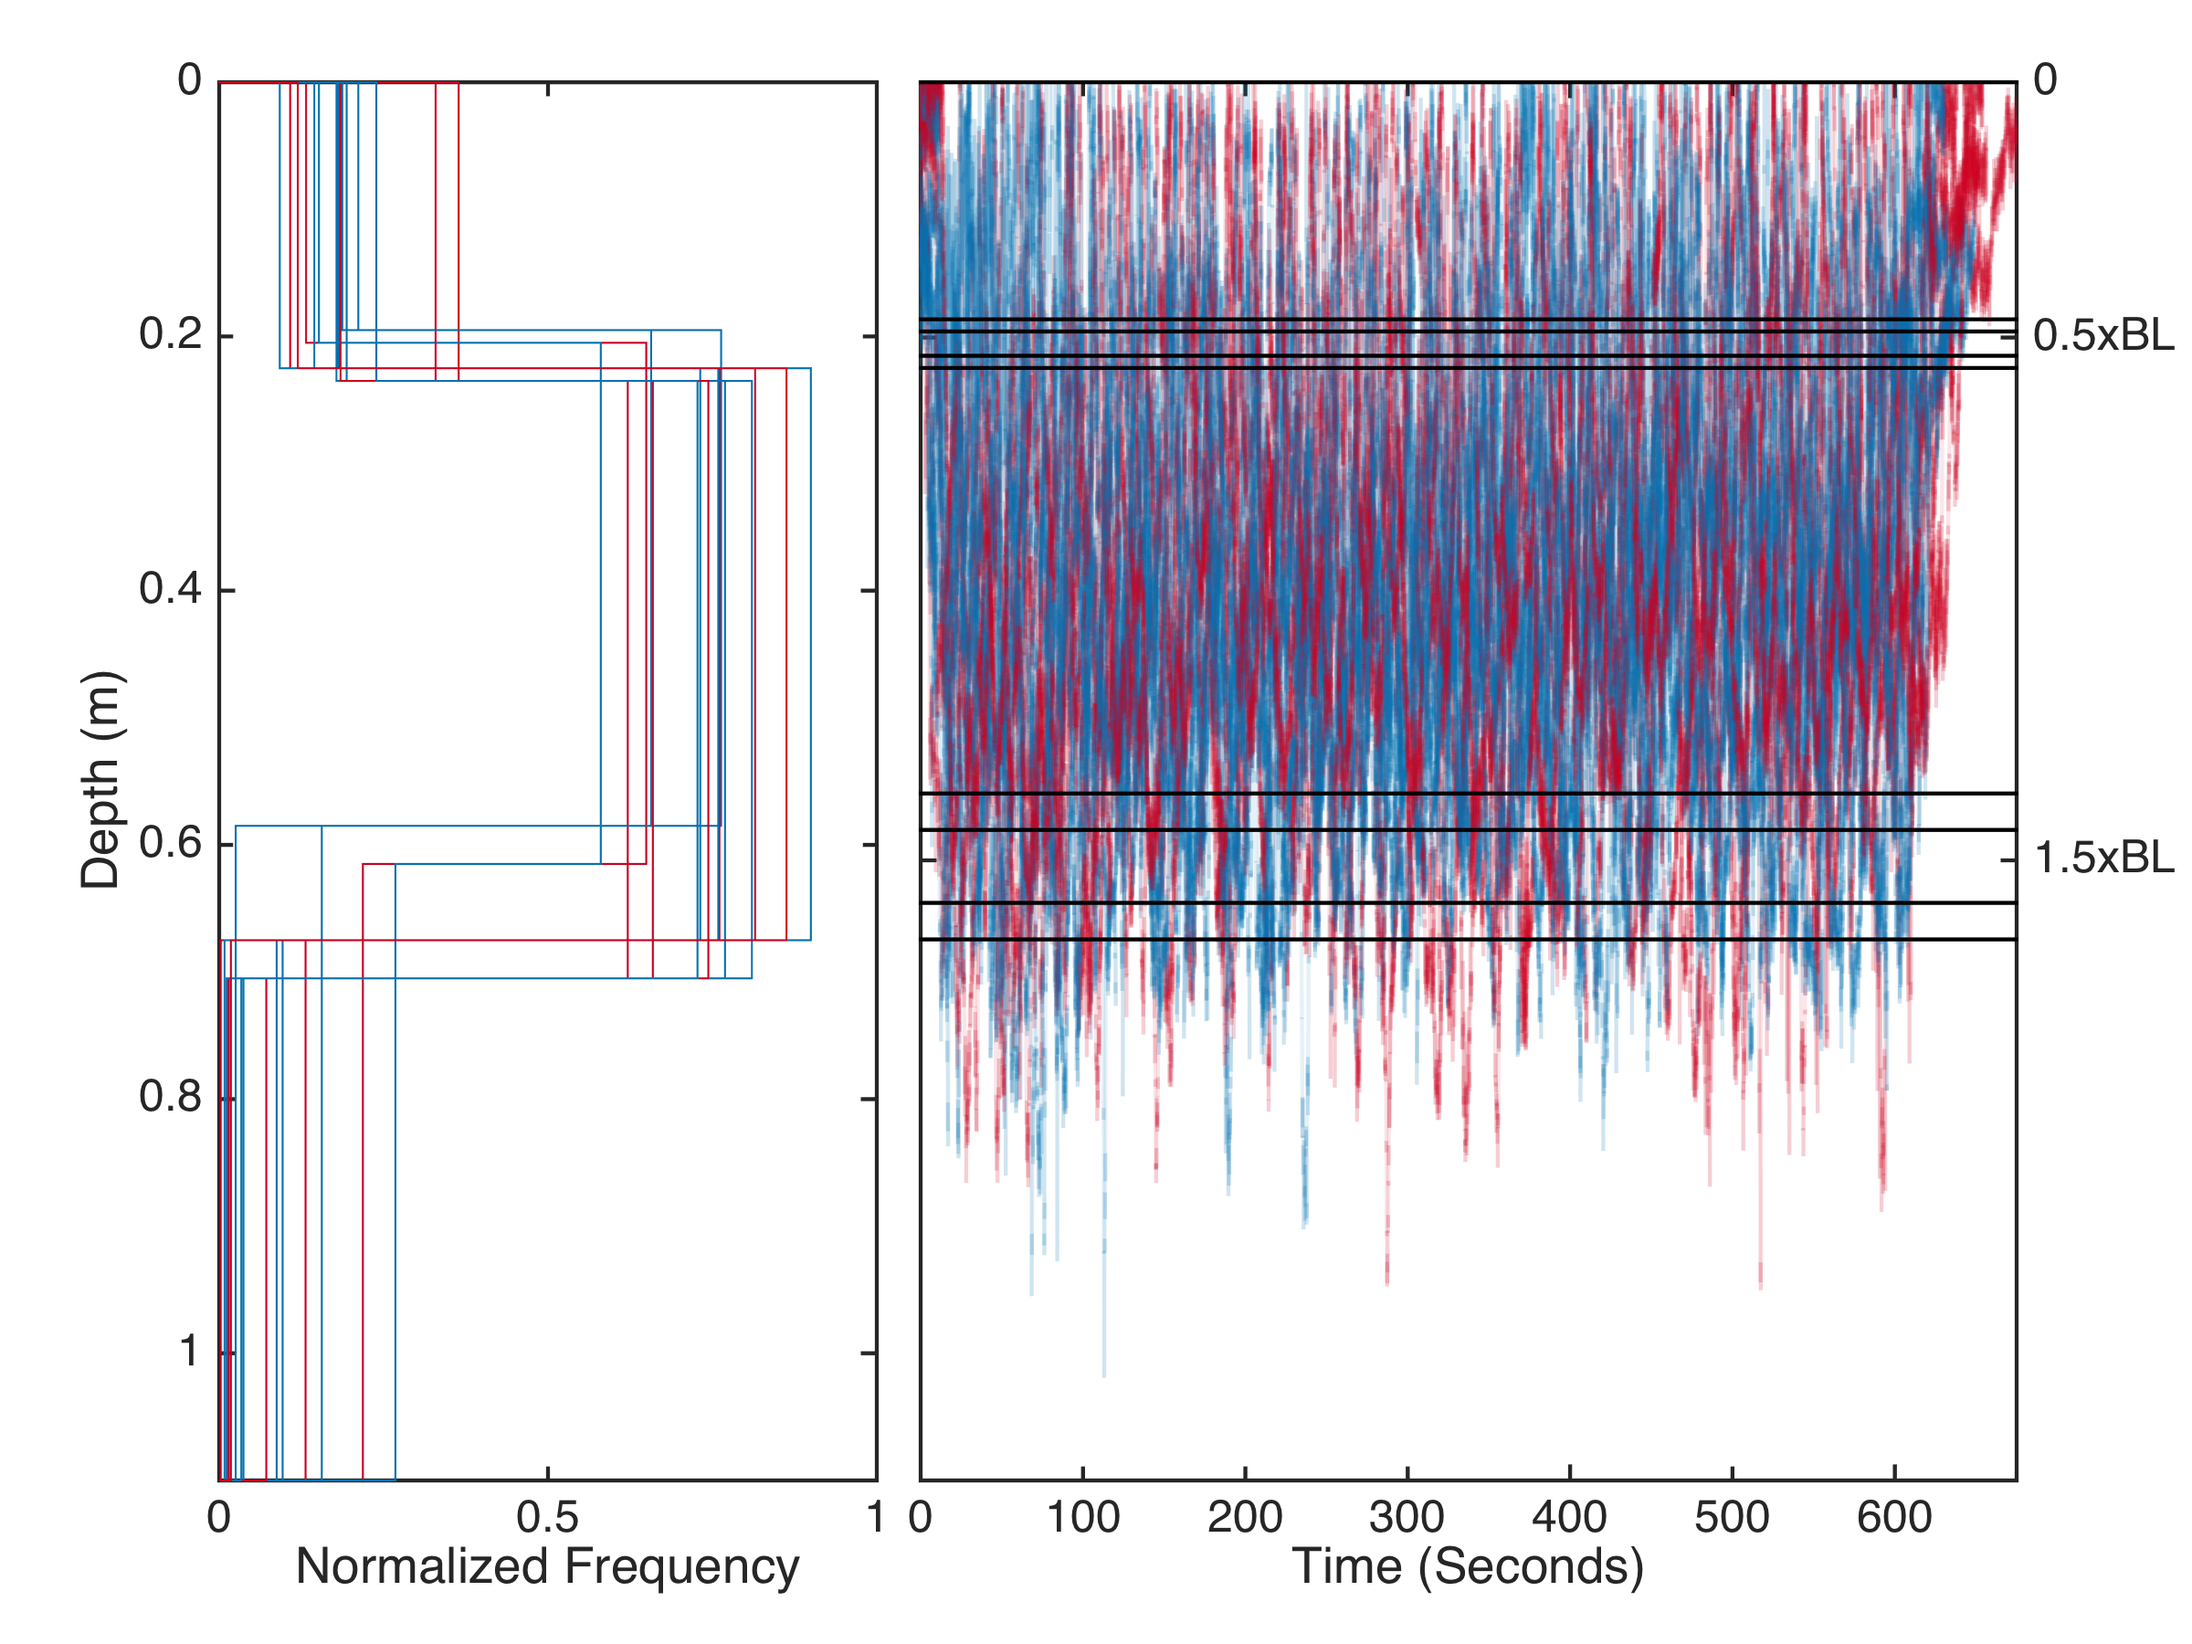
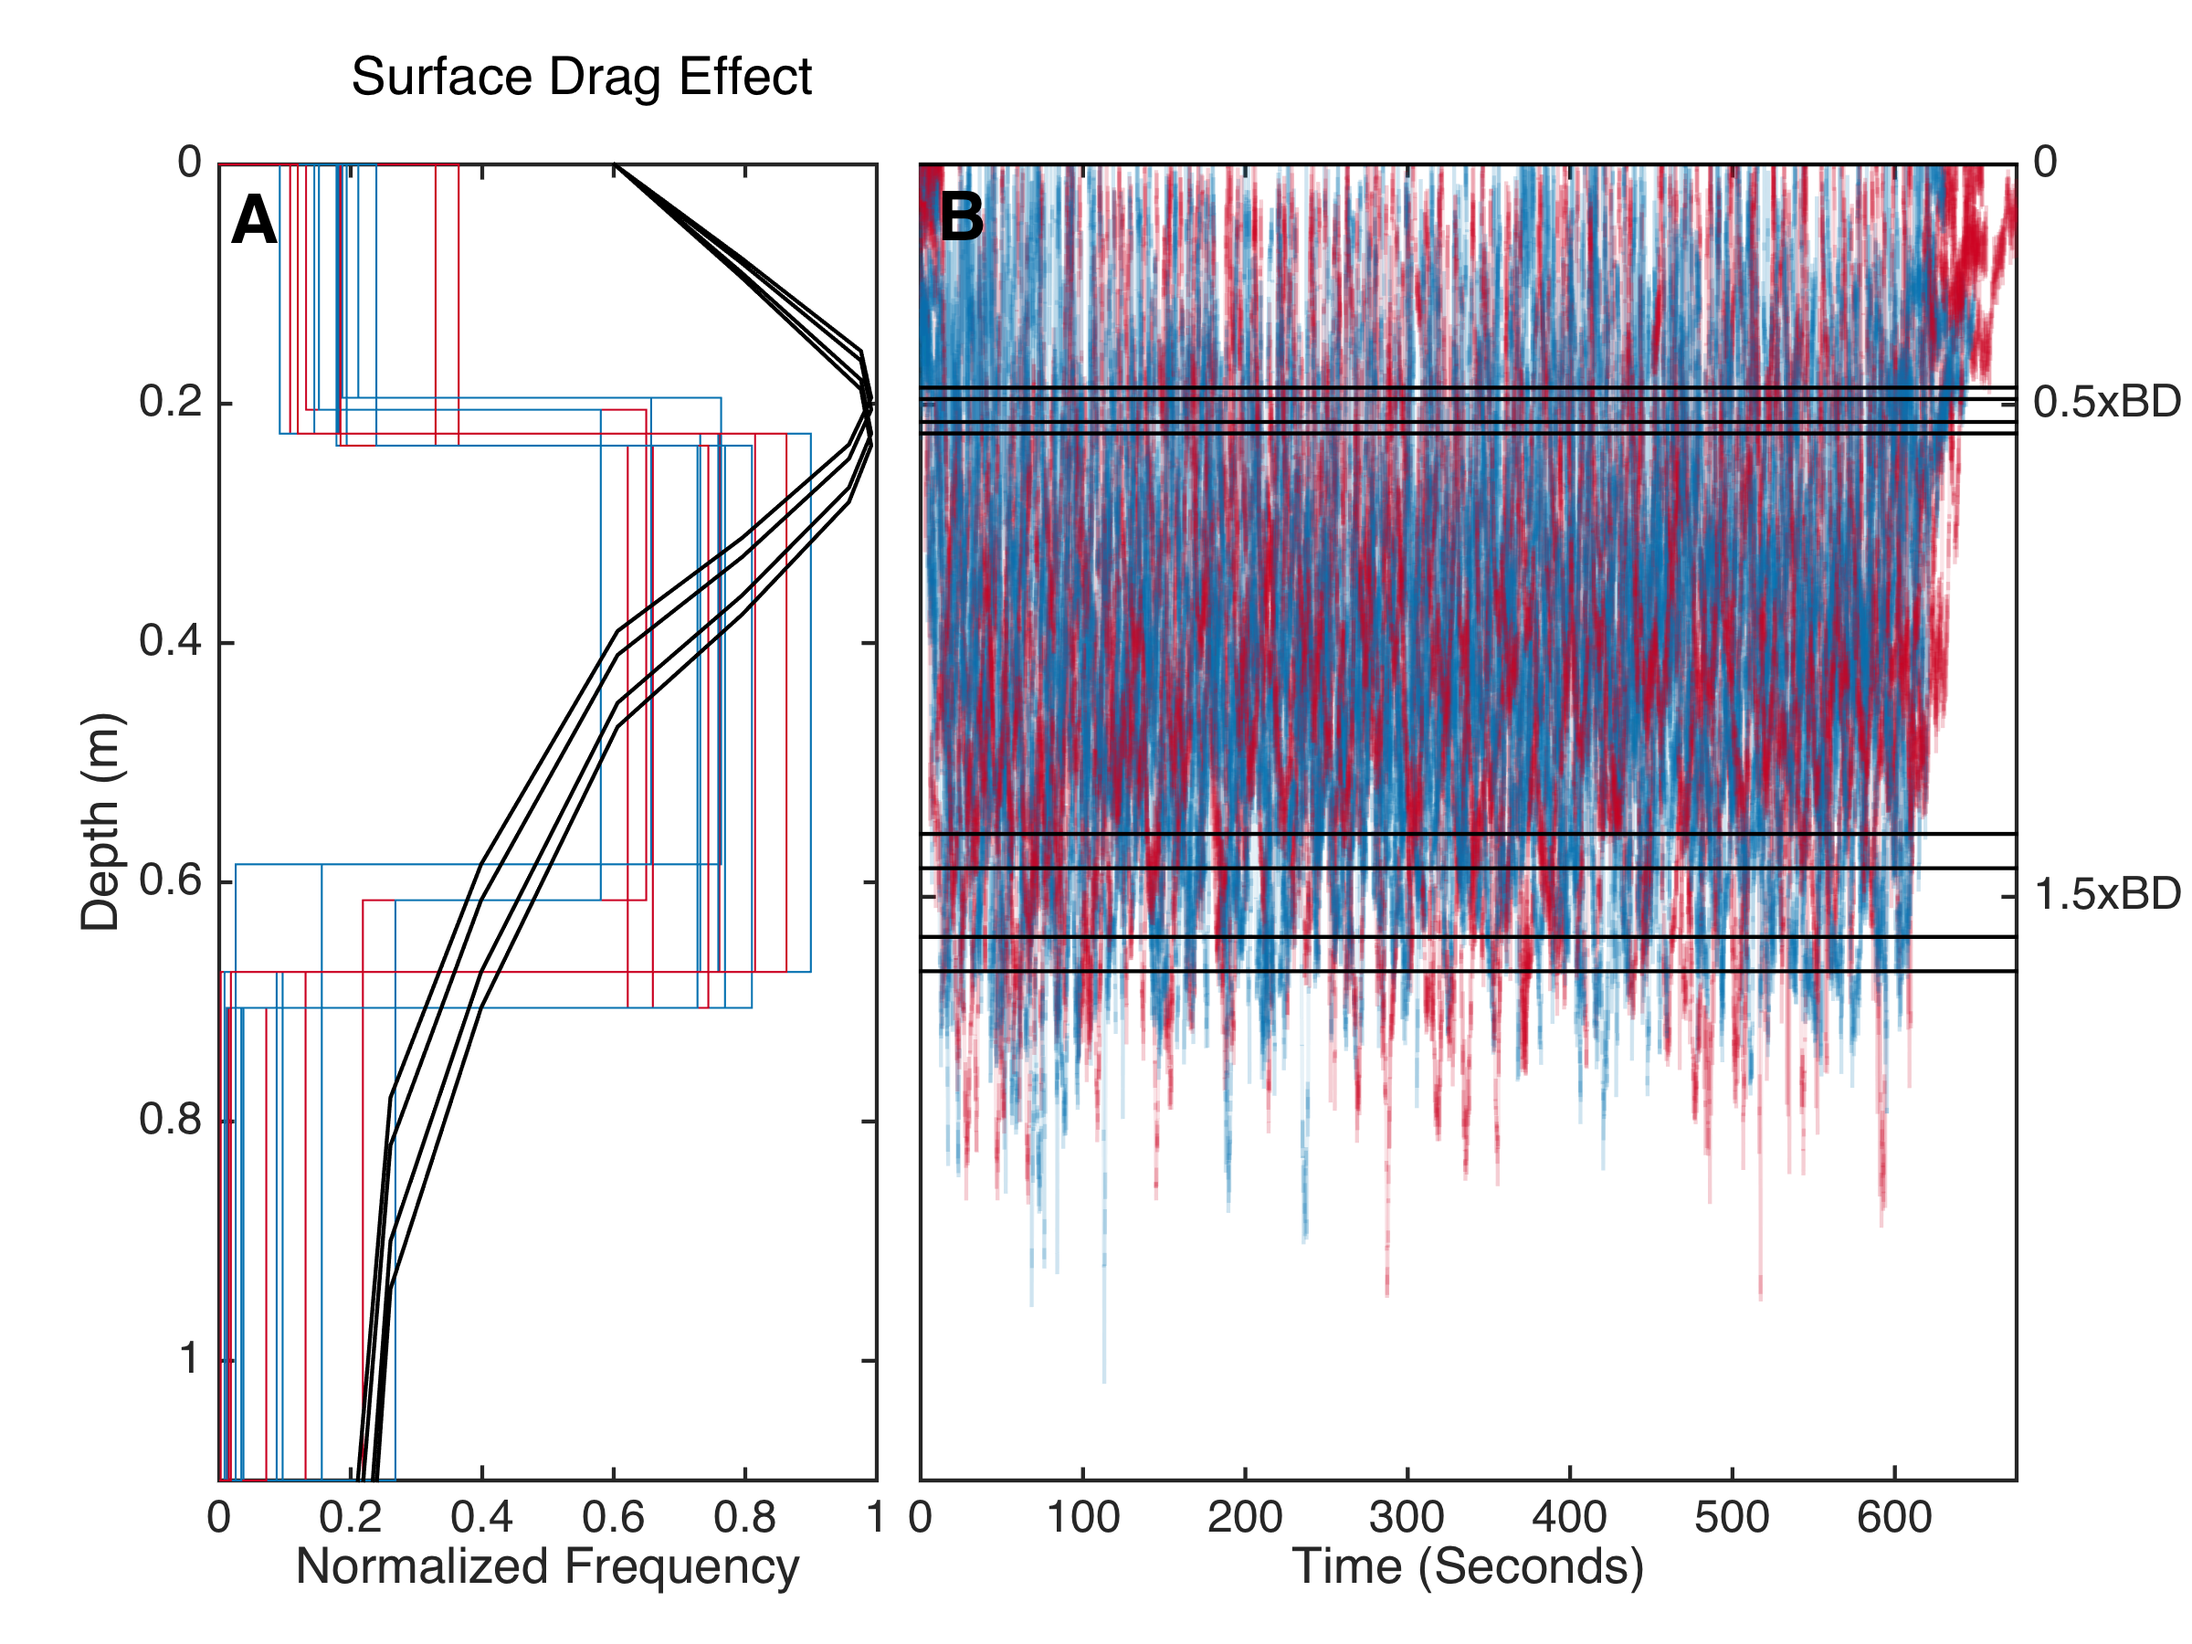
Plot improvements

diff --git a/DQdepth_bins.m b/DQdepth_bins.m
@@ -16,7 +16,7 @@ for i = 1:length(d);
     edges = [0 0.5*diam(Ind(i)) 1.5*diam(Ind(i)) 3*diam(Ind(i)) 5*diam(Ind(i))]; %  bin edges
     [n(i,:),edges] = histcounts(tag.(name2).pCORR(tag.(name2).start:tag.(name2).stop),edges,'normalization','probability'); % n proportion of time spent in that depth bin
     figure(1);
-    subplot('position',[0.1 0.1 0.3 0.85]); hold on; view([90 90])
+    subplot('position',[0.1 0.1 0.3 0.8]); hold on; view([90 90])
     h = histogram(tag.(name2).pCORR(tag.(name2).start:tag.(name2).stop),edges,'normalization','probability','displaystyle','stairs');
     if Cond(i) == 1
         set(h,'EdgeColor',[5/255 113/255 176/255])
@@ -24,35 +24,52 @@ for i = 1:length(d);
     end
     % make time vector in seconds
     t_s = (1:length(tag.(name2).start:tag.(name2).stop))/tag.(name2).fs;
-    subplot('position',[0.42 0.1 0.5 0.85]); hold on
+    subplot('position',[0.42 0.1 0.5 0.8]); hold on
     if Cond(i) == 1
         h2 = patchline(t_s,-tag.(name2).pCORR(tag.(name2).start:tag.(name2).stop),'edgecolor',[5/255 113/255 176/255],'edgealpha',0.1);
     else h2 = patchline(t_s,-tag.(name2).pCORR(tag.(name2).start:tag.(name2).stop),'edgecolor',[202/255 0 32/255],'edgealpha',0.1);
     end
+    % get maximum depth
+    mx(i) = max(tag.(name2).pCORR(tag.(name2).start:tag.(name2).stop));
 end
 plot([0 675],[0 0],'k') % plot surface
 for i = 1:4; % plot diameters
-plot([0 675],-[0.5*diam(i) 0.5*diam(i)],'k');
-plot([0 675],-[1.5*diam(i) 1.5*diam(i)],'k');
+    plot([0 675],-[0.5*diam(i) 0.5*diam(i)],'k');
+    plot([0 675],-[1.5*diam(i) 1.5*diam(i)],'k');
 end
 xlim([0 675]); ylim([-1.15 0]); box on
-xlabel('Time (Seconds)'); 
+xlabel('Time (Seconds)');
+text(10,-0.05,'B','FontSize',18,'FontWeight','bold')
 set(gca,'ytick',[-0.64 -0.21 0],'yticklabels',{'1.5xBD','0.5xBD','0'},'yaxislocation','right')
 
-subplot('position',[0.1 0.1 0.3 0.85]); hold on; view([90 90])
+subplot('position',[0.1 0.1 0.3 0.8]); hold on; view([90 90])
 xlabel('Depth (m)'); xlim([0 1.1]); box on;
 ylabel('Normalized Frequency')
+set(gca,'ytick',0:0.2:1)
 set(gcf,'position',[384   241   675   384])
+text(0.05,0.015, 'A','FontSize',18,'FontWeight','bold')
+text(-0.07,0.2, 'Surface Drag Effect','FontSize',14)
 adjustfigurefont
+
+load('gamma')
+plot(gamma(:,1)*diam,gamma(:,2)/5,'k')
 
 cd /Users/julievanderhoop/Documents/MATLAB/DQ/DQ2013/AnalysisFigs
 print('DQ2013_TagDepth','-dpng','-r300')
+
+
+[mean(mx(Cond == 1)) std(mx(Cond == 1))];
+[mean(mx(Cond == 4)) std(mx(Cond == 4))];
+[mean(n(Cond == 1,2)) std(n(Cond == 1,2))];
+[mean(n(Cond == 4,2)) std(n(Cond == 4,2))];
+
+return
 
 %% plot time spent in different depth bins
 figure(2); clf; hold on
 [Y,I] = sort(Cond);
 for i = 1:length(n)
-   h = plot3(repmat(i,4,1),n(I(i),:),[-0.5 -1.5 -3 -5]);
+    h = plot3(repmat(i,4,1),n(I(i),:),[-0.5 -1.5 -3 -5]);
     % but make these different colours and symbols for different conditions
     if Cond(I(i)) == 1
         set(h,'color',[5/255 113/255 176/255],'marker','^','markerfacecolor',[5/255 113/255 176/255],'markeredgecolor','k')
@@ -88,5 +105,3 @@ plot(zeros(length(find(Cond == 1))),n(Cond == 1,1),'^','color',[5/255 113/255 17
 plot(zeros(length(find(Cond == 4)))+0.5,n(Cond == 4,1),'s','color',[202/255 0 32/255])
 plot(ones(length(find(Cond == 1))),n(Cond == 1,2),'^','color',[5/255 113/255 176/255])
 plot(ones(length(find(Cond == 4)))+0.5,n(Cond == 4,2),'s','color',[202/255 0 32/255])
-
-
